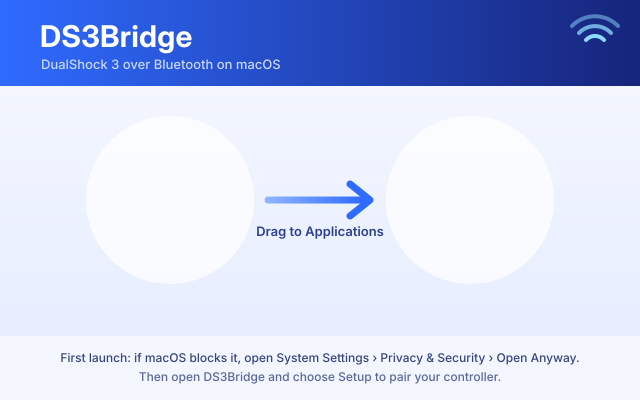
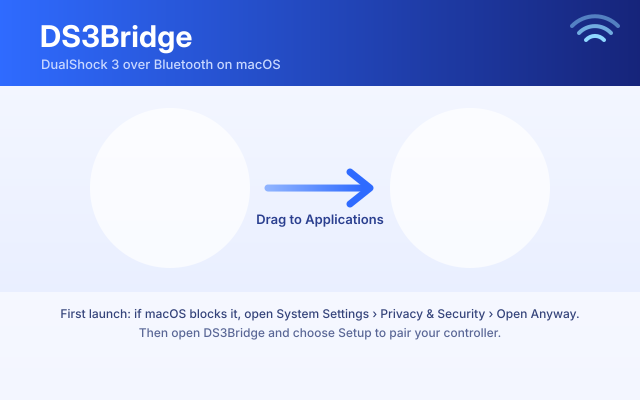
Disk image: 72/144 dpi background, footer above Finder's path bar, room for the title bar

Changed region(s): [[0.0938, 0.75, 0.9062, 0.96], [0.4062, 0.42, 0.5938, 0.6]]

diff --git a/assets/dmg-settings.py b/assets/dmg-settings.py
@@ -12,7 +12,7 @@ symlinks = {"Applications": "/Applications"}
 icon = defines["icon"]                    # volume icon while the image is mounted
 background = defines["background"]        # 640x400, with a @2x version (TIFF)
 
-window_rect = ((200, 140), (640, 400))
+window_rect = ((200, 140), (640, 428))   # 400 of content + the title bar
 default_view = "icon-view"
 show_status_bar = False
 show_tab_view = False
@@ -23,7 +23,7 @@ icon_size = 112
 text_size = 13
 arrange_by = None
 icon_locations = {
-    app_name: (170, 200),
-    "Applications": (470, 200),
+    app_name: (170, 188),
+    "Applications": (470, 188),
 }
 hide_extension = [app_name]
